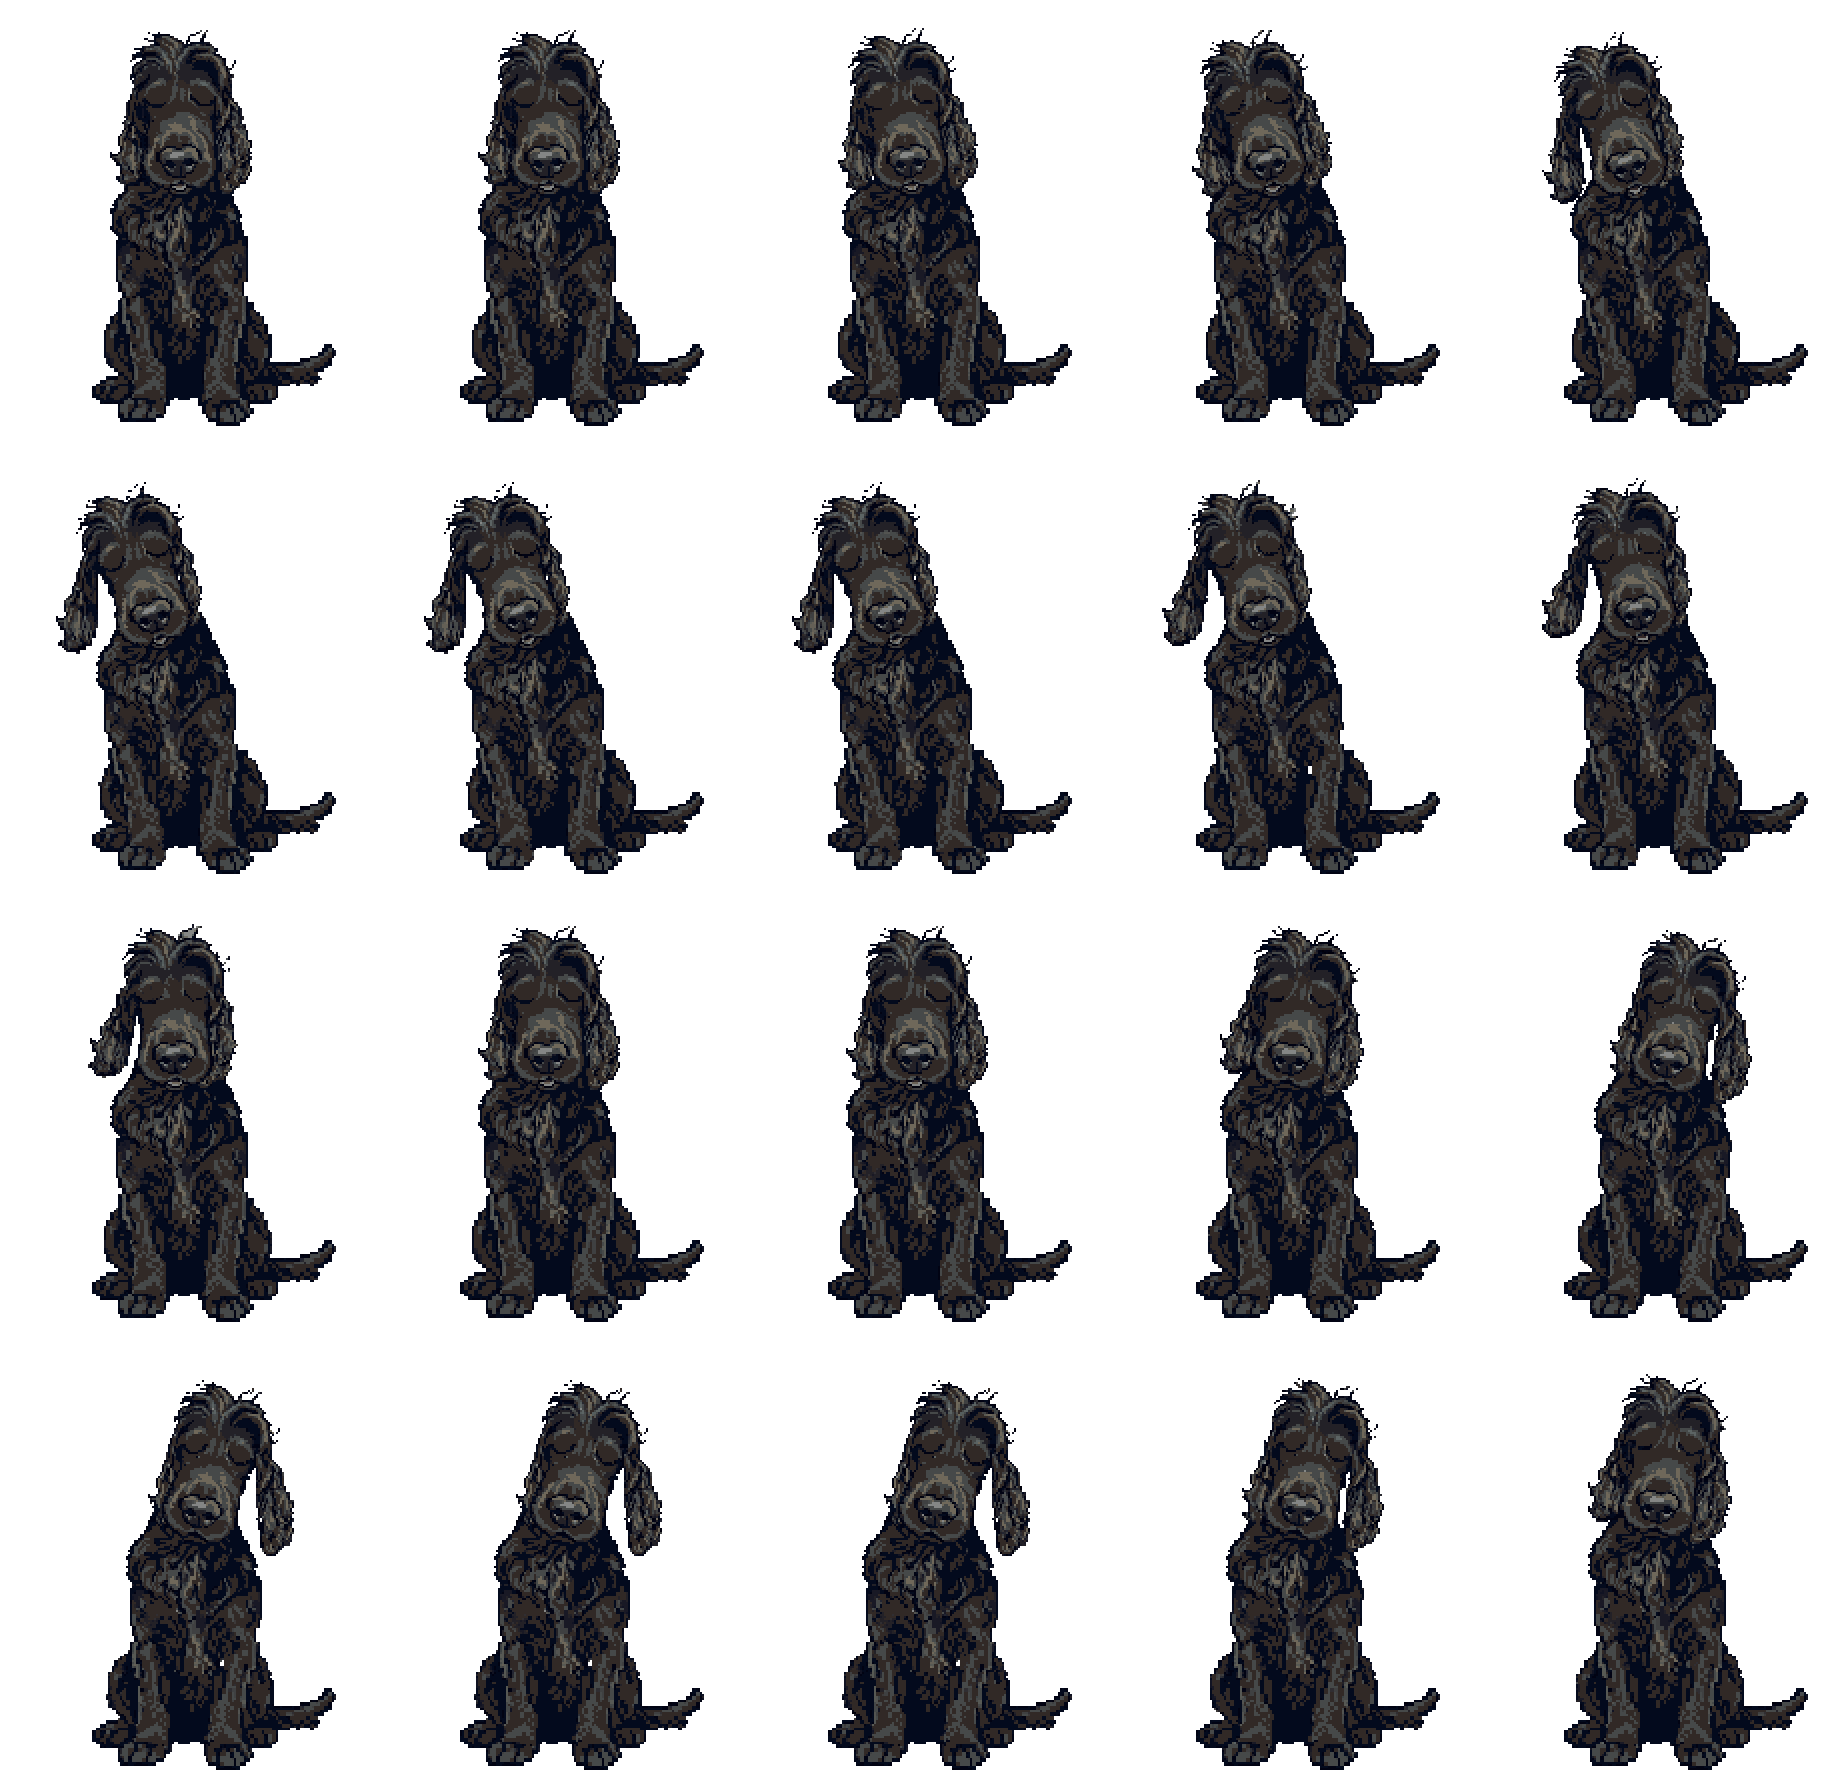
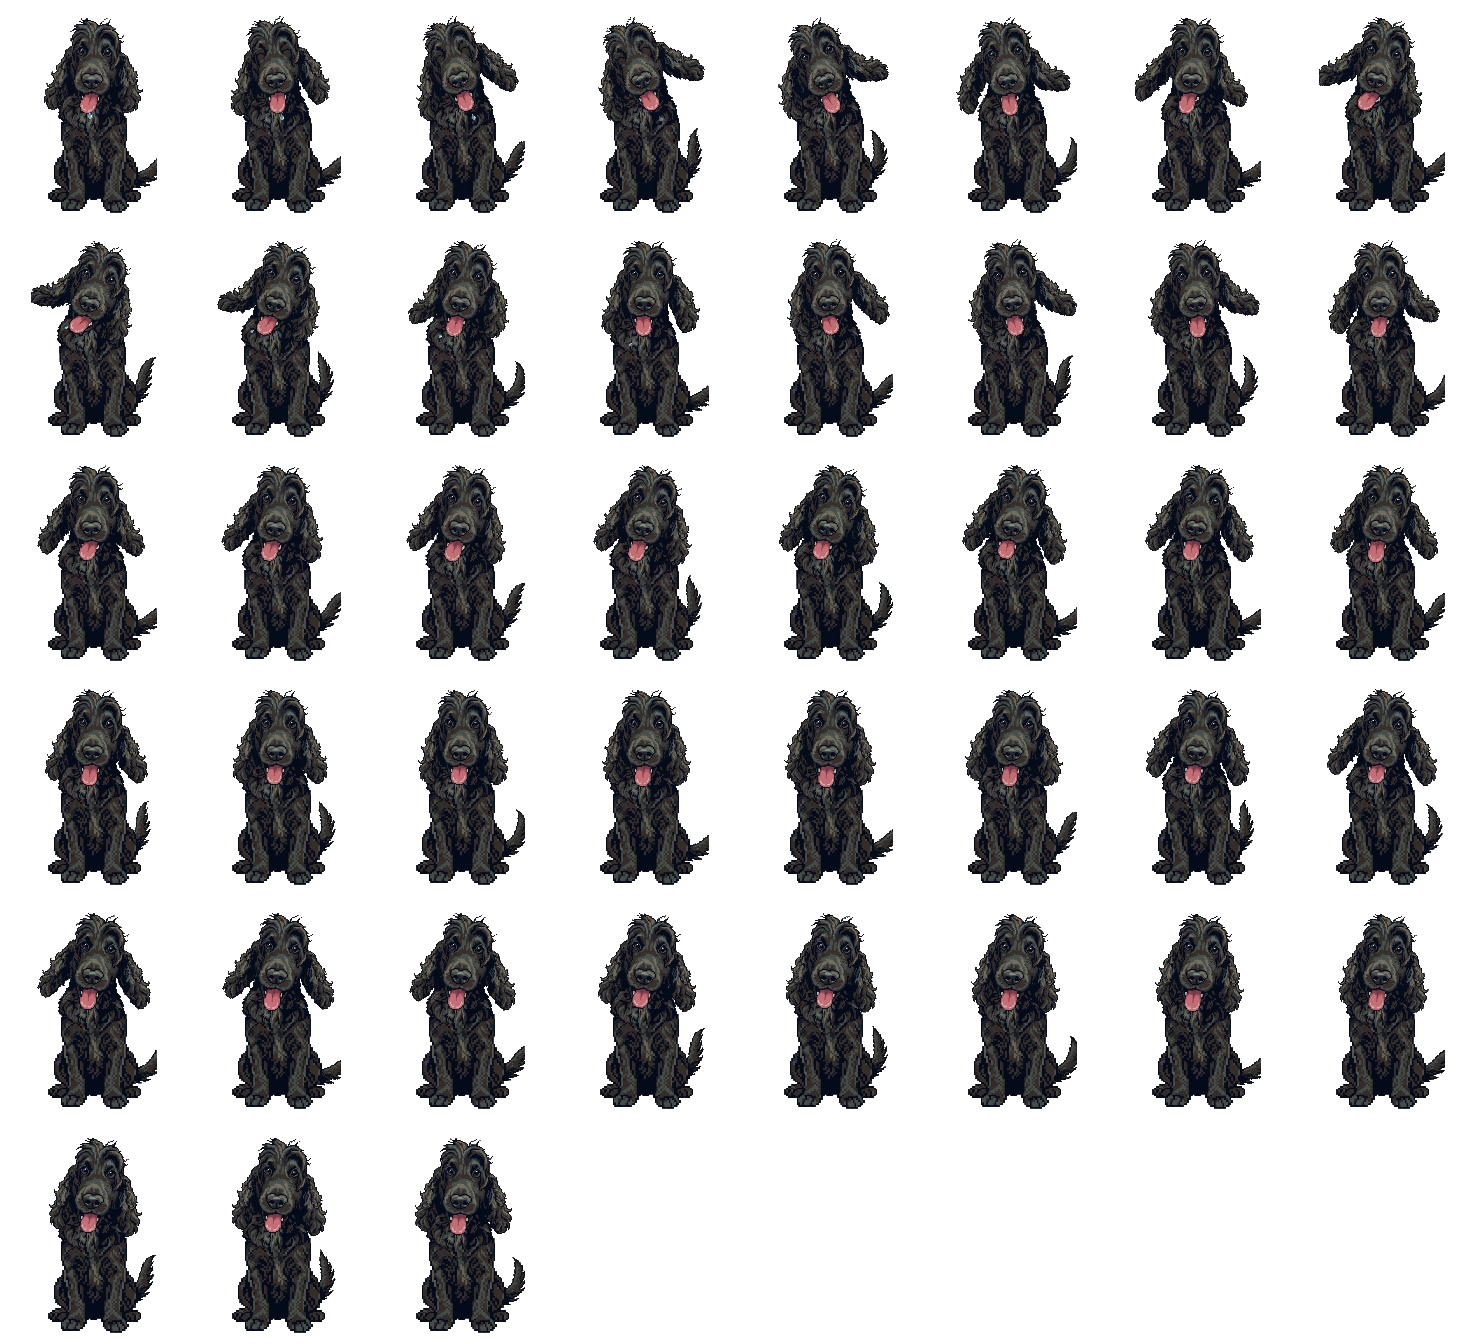
摸头换成用户新做的视频：去掉假透明格子，挑 3.6 秒顺滑循环做成精灵图；修精灵图被拉成正方形

diff --git a/.dev/frames.swift b/.dev/frames.swift
@@ -1,0 +1,20 @@
+// 把视频拆成 PNG 帧（Mac 自带，不用装 ffmpeg）。用法：
+//   swiftc -O .dev/frames.swift -o /tmp/frames && /tmp/frames 视频.mp4 输出文件夹 每秒几帧
+import AVFoundation
+import AppKit
+let args = CommandLine.arguments
+let url = URL(fileURLWithPath: args[1]); let outDir = args[2]; let fps = Double(args[3])!
+let asset = AVURLAsset(url: url)
+let gen = AVAssetImageGenerator(asset: asset)
+gen.requestedTimeToleranceBefore = .zero; gen.requestedTimeToleranceAfter = .zero
+let dur = CMTimeGetSeconds(asset.duration)
+let track = asset.tracks(withMediaType: .video).first!
+print("duration", dur, "nominalFps", track.nominalFrameRate, "size", track.naturalSize)
+var i = 0; var t = 0.0
+while t < dur - 0.001 {
+  let cg = try! gen.copyCGImage(at: CMTime(seconds: t, preferredTimescale: 600), actualTime: nil)
+  let rep = NSBitmapImageRep(cgImage: cg)
+  try! rep.representation(using: .png, properties: [:])!.write(to: URL(fileURLWithPath: String(format: "%@/f%03d.png", outDir, i)))
+  i += 1; t += 1.0 / fps
+}
+print("frames", i)

diff --git a/config.js b/config.js
@@ -31,7 +31,7 @@ export const CONFIG = {
     leave: { src: '', duration: 2200 },             // ③ 走开（同时会自动缩小、往远处移动）
     away:  { src: '' },                             //    走远后待着的样子（留空就用 idle）
     come:  { src: '', duration: 1100 },             // ④ 跑过来（同时会自动放大回到面前）
-    pet:   { src: 'assets/dog/pet.png', frames: 20, cols: 5, fps: 7, loop: true }, // ⑤ 被摸头：眯眼左右歪头（精灵图，手一直摆就一直播）
+    pet:   { src: 'assets/dog/pet.png', frames: 43, cols: 8, fps: 12, loop: true }, // ⑤ 被摸头：吐舌头、甩耳朵、摇尾巴（精灵图，手一直摆就一直播）
     shake: { src: '', duration: 1600 },             // ⑥ 握手（坐着伸爪子，握完继续坐着）
     playDead: { src: '', duration: 2000 },          // ⑦ 装死（躺 2 秒后自己爬起来；视频就播到结尾）
     praise: { src: '', duration: 1300 },            // ⑧ 被夸（开心扭一扭）

diff --git a/pet.js b/pet.js
@@ -307,6 +307,12 @@ export class Pet {
       el.style.backgroundImage = `url("${src}")`;
       // 检查图片能不能加载，加载失败就退回卡通狗
       const probe = new Image();
+      // 每一帧不一定是正方形：按帧的宽高比设宽度，不然会被拉扁
+      el.style.width = '';
+      probe.onload = () => {
+        if (el.dataset.src !== src) return;
+        el.style.width = `${((probe.naturalWidth / cols) / (probe.naturalHeight / rows)) * 100}%`;
+      };
       probe.onerror = () => {
         if (el.dataset.src !== src) return;
         console.warn(`素材加载失败，改用卡通狗：${src}`);

diff --git a/style.css b/style.css
@@ -108,7 +108,7 @@ body {
   transform: translateX(-50%) translateY(var(--away-y)) scale(var(--away-scale));
 }
 .pet-media { position: absolute; inset: 0; width: 100%; height: 100%; object-fit: contain; image-rendering: pixelated; }
-.pet-sprite { background-repeat: no-repeat; }
+.pet-sprite { background-repeat: no-repeat; margin-inline: auto; } /* 宽度由 pet.js 按帧比例设，居中 */
 .pet-media[hidden], .dog[hidden] { display: none; }
 
 /* ---------- 像素狗的代码动效（动作还没素材时，用待机图演） ----------

diff --git a/AGENTS.md b/AGENTS.md
@@ -149,6 +149,8 @@ node tests/gestures.test.mjs
 
 ## 开发日志（最新的写在最上面）
 
+- **2026-11-08 · Claude**：摸头换成用户新做的视频（`摸头.mp4`，720×1280、10 秒、24fps）：视频里的透明格子是「画进去」的假透明。用 `.dev/frames.swift`（Mac 自带的 AVFoundation，不用 ffmpeg）按 12fps 拆帧，挑了衔接最顺的一段（第 41–83 帧，约 3.6 秒循环），在浏览器里从边缘洪水填充去掉浅灰/白格子，按待机图的大小和脚底位置对齐，做成 `assets/dog/pet.png`（43 帧、8 列、184×224 每帧、12fps、1.6MB）。顺手修了精灵图会被拉成正方形的问题（`playSprite` 按帧宽高比设宽度）。测试全部通过。只本地提交，英文版主页需要再同步一次。
+
 - **2026-11-08 · Claude**：还没做像素素材的动作（转圈、走开、跑来、握手、装死、被夸、扔球、亲亲）不再切回卡通柴犬，改用自家狗的 `idle.gif` 加 CSS 动效演（`pet.js` 的 `render()` 给 `#petWrap` 加 `data-motion`，样式在 `style.css`「像素狗的代码动效」）。某个动作放了素材就自动用素材。`config.js` 里 `pixelFallback: false` 可以换回卡通狗。测试全部通过。只本地提交。英文版主页需要再运行一次同步。
 
 - **2026-11-08 · Claude**：加了英文版：新文件 `i18n.js`，网址加 `?lang=en` 就把菜单栏、状态栏、手势说明、摄像头按钮、提示语都换成英文（狗名用 Bubble）；不加参数还是中文，原来的样子不变。用户个人主页 `~/Documents/ChatGPT/个人主页/yuwen-portfolio` 第四页的 "Play with Bubble" 用 iframe 打开 `index.html?lang=en`，文件是用那边的 `scripts/sync-bubble.mjs` 从这里复制过去的，**这里改完要去主页项目运行一次同步**。手势逻辑没动，测试全部通过。只本地提交。
